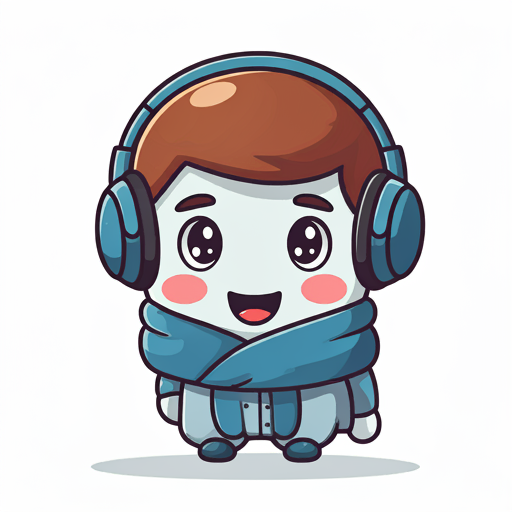
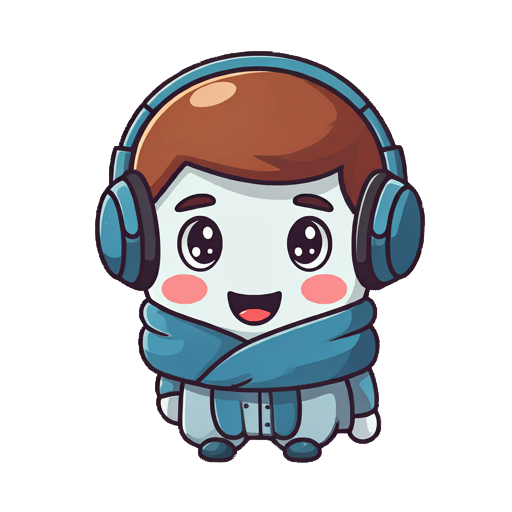
a bit of css magic

Changed region(s): [[0.1875, 0.8438, 0.8125, 0.9375]]

diff --git a/src/assets/css/styles.css b/src/assets/css/styles.css
@@ -1,10 +1,15 @@
 /* General Styling */
 body {
     font-family: 'Arial Rounded MT Bold', 'Arial', sans-serif;
-    background-color: white;
     margin: 0;
     padding: 0;
     color: #333;
+    min-height: 100vh;
+    display: flex;
+    flex-direction: column;
+    background: #ECE9E6;  /* fallback for old browsers */
+    background: -webkit-linear-gradient(to bottom, #FFFFFF, #ECE9E6);  /* Chrome 10-25, Safari 5.1-6 */
+    background: linear-gradient(to bottom, #FFFFFF, #ECE9E6); /* W3C, IE 10+/ Edge, Firefox 16+, Chrome 26+, Opera 12+, Safari 7+ */
 }
 
 .resultsPage{
@@ -89,9 +94,11 @@ body {
 
 /* Mode Selector Styling */
 .mode-selector h2 {
-    font-size: 1.5rem;
-    margin-bottom: 30px;
+    font-size: 30px;
+    margin-bottom: 27px;
     margin-top: 20px;
+    color: #006969;
+    font-weight: 400;
 }
 
 /* Mode Buttons */
@@ -108,7 +115,7 @@ body {
 .mode-btn {
     background-color: #008080; /* Teal */
     color: white;
-    border-radius: 20px;
+    border-radius: 30px;
     padding: 20px 0; /* Increase padding to make buttons larger */
     width: 250px; /* Make buttons wider */
     font-size: 18px; /* Make text larger */
@@ -119,13 +126,14 @@ body {
     transition: transform 0.3s ease, background-color 0.3s ease, box-shadow 0.3s ease;
     border: 2px solid transparent; /* Transparent border to prevent resizing */
     height: 100px;
-    line-height: 50px
+    line-height: 50px;
+    box-shadow: 0 4px 8px rgba(0, 0, 0, 0.2);
 }
 
 .ex-btn {
     background-color: #008080;
     color: white;
-    border-radius: 20px;
+    border-radius: 30px;
     width: 300px;
     font-size: 34px;
     font-weight: bold;
@@ -145,6 +153,19 @@ body {
     border: 2px solid #FFA500; /* Orange border on hover */
 }
 
+.ex-btn:hover{
+    background-color: #006666; /* Darker teal on hover */
+    transform: scale(1.05);
+    box-shadow: 0 4px 8px rgba(0, 0, 0, 0.2);
+    border: 2px solid #FFA500; /* Orange border on hover */
+}
+
+#custom-btn:hover{
+    background-color: #006666; /* Darker teal on hover */
+    box-shadow: 0 4px 8px rgba(0, 0, 0, 0.2);
+    border: 2px solid #FFA500; /* Orange border on hover */
+}
+
 /* Mascotte Styling */
 .frame {
     text-align: center;
@@ -155,6 +176,8 @@ body {
     height: 500px;
     display: block;
     margin: 0 auto;
+    -webkit-filter: drop-shadow(1px 5px 5px #787878bd);
+    filter: drop-shadow(1px 5px 5px #606060b9);
 }
 
 /* Authentication Section */
@@ -206,6 +229,7 @@ body {
     background-color: #006666;
     transform: scale(1.05);
     box-shadow: 0 4px 8px rgba(0, 0, 0, 0.2);
+    border: 2px solid #FFA500;
 }
 
 .stack {

diff --git a/src/index.html b/src/index.html
@@ -43,7 +43,7 @@
     <!-- Main Content Section -->
     <main class="main-container">
         <div class="mode-selector">
-            <h2 data-translate="trainPrompt">Ear Training</h2>
+            <h2 data-translate="trainPrompt" class="trainPrompt">Ear Training</h2>
             <div class="mode-buttons">
                 <a href="ear-training/index.html" class="btn btn-primary mode-btn" data-translate="earTraining">Ear Training</a>
                 <a href="vocal-training/index.html" class="btn btn-primary mode-btn" data-translate="vocalTraining">Vocal Training</a>
